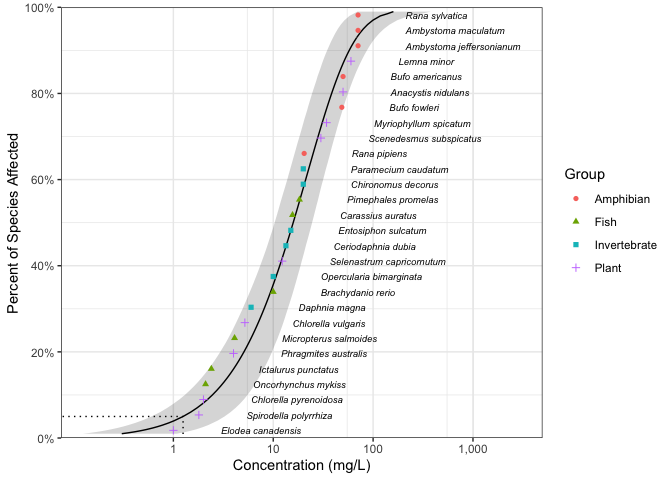
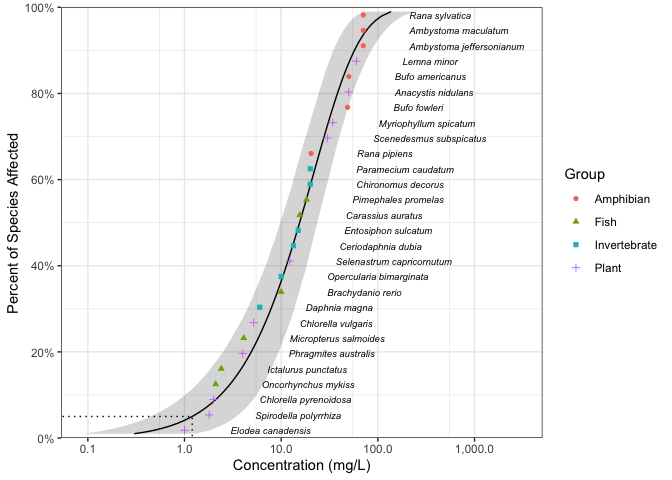
update readme and vignette

diff --git a/README.md b/README.md
@@ -83,15 +83,12 @@ The goodness of fit can be assessed using `ssd_gof`
 
 ``` r
 ssd_gof(boron_dists)
-#> # A tibble: 6 x 9
-#>   dist        ad     ks    cvm   aic  aicc   bic delta weight
-#> * <chr>    <dbl>  <dbl>  <dbl> <dbl> <dbl> <dbl> <dbl>  <dbl>
-#> 1 gamma    0.441 0.117  0.0555  238.  238.  240. 0.019  0.268
-#> 2 gompertz 0.602 0.120  0.0823  238.  238.  240. 0      0.271
-#> 3 lgumbel  0.829 0.158  0.134   244.  245.  247. 6.58   0.01 
-#> 4 llog     0.487 0.0993 0.0595  241.  241.  244. 3.40   0.049
-#> 5 lnorm    0.507 0.107  0.0703  239.  240.  242. 1.42   0.133
-#> 6 weibull  0.435 0.117  0.0543  238.  238.  240. 0.014  0.269
+#> # A tibble: 3 x 9
+#>   dist       ad    ks    cvm   aic  aicc   bic delta weight
+#> * <chr>   <dbl> <dbl>  <dbl> <dbl> <dbl> <dbl> <dbl>  <dbl>
+#> 1 gamma   0.441 0.117 0.0555  238.  238.  240. 0.005  0.4  
+#> 2 lnorm   0.507 0.107 0.0703  239.  240.  242. 1.40   0.199
+#> 3 weibull 0.435 0.117 0.0543  238.  238.  240. 0      0.401
 ```
 
 and the model-averaged 5% hazard concentration estimated using `ssd_hc`
@@ -104,8 +101,8 @@ boron_hc5 <- ssd_hc(boron_dists, nboot = 10000)
 print(boron_hc5)
 #> # A tibble: 1 x 5
 #>   percent   est    se   lcl   ucl
-#>     <int> <dbl> <dbl> <dbl> <dbl>
-#> 1       5  1.25 0.736 0.604  3.20
+#> *   <int> <dbl> <dbl> <dbl> <dbl>
+#> 1       5  1.20 0.809 0.434  3.39
 ```
 
 Model-averaged predictions complete with confidence intervals can be
@@ -132,7 +129,7 @@ The ssdtools manual is available at
 A shiny webpage developed for non-R-users is available at
 <https://poissonconsulting.shinyapps.io/ssdtools/>.
 
-The ssdtool package was developed as a result of earlier drafts of:
+The ssdtools package was developed as a result of earlier drafts of:
 
 Schwarz, C., and Tillmanns, A. 2019. Improving Statistical Methods for
 Modeling Species Sensitivity Distributions. Province of British
@@ -157,8 +154,8 @@ To report bugs/issues/feature requests, please file an
 To cite ssdtools in publications use:
 
   Thorley, J. and Schwarz C., (2018). ssdtools An R package to fit
-  Species Sensitivity Distributions. Journal of Open Source
-  Software, 3(31), 1082. https://doi.org/10.21105/joss.01082
+  Species Sensitivity Distributions. Journal of Open Source Software,
+  3(31), 1082. https://doi.org/10.21105/joss.01082
 
 A BibTeX entry for LaTeX users is
 
